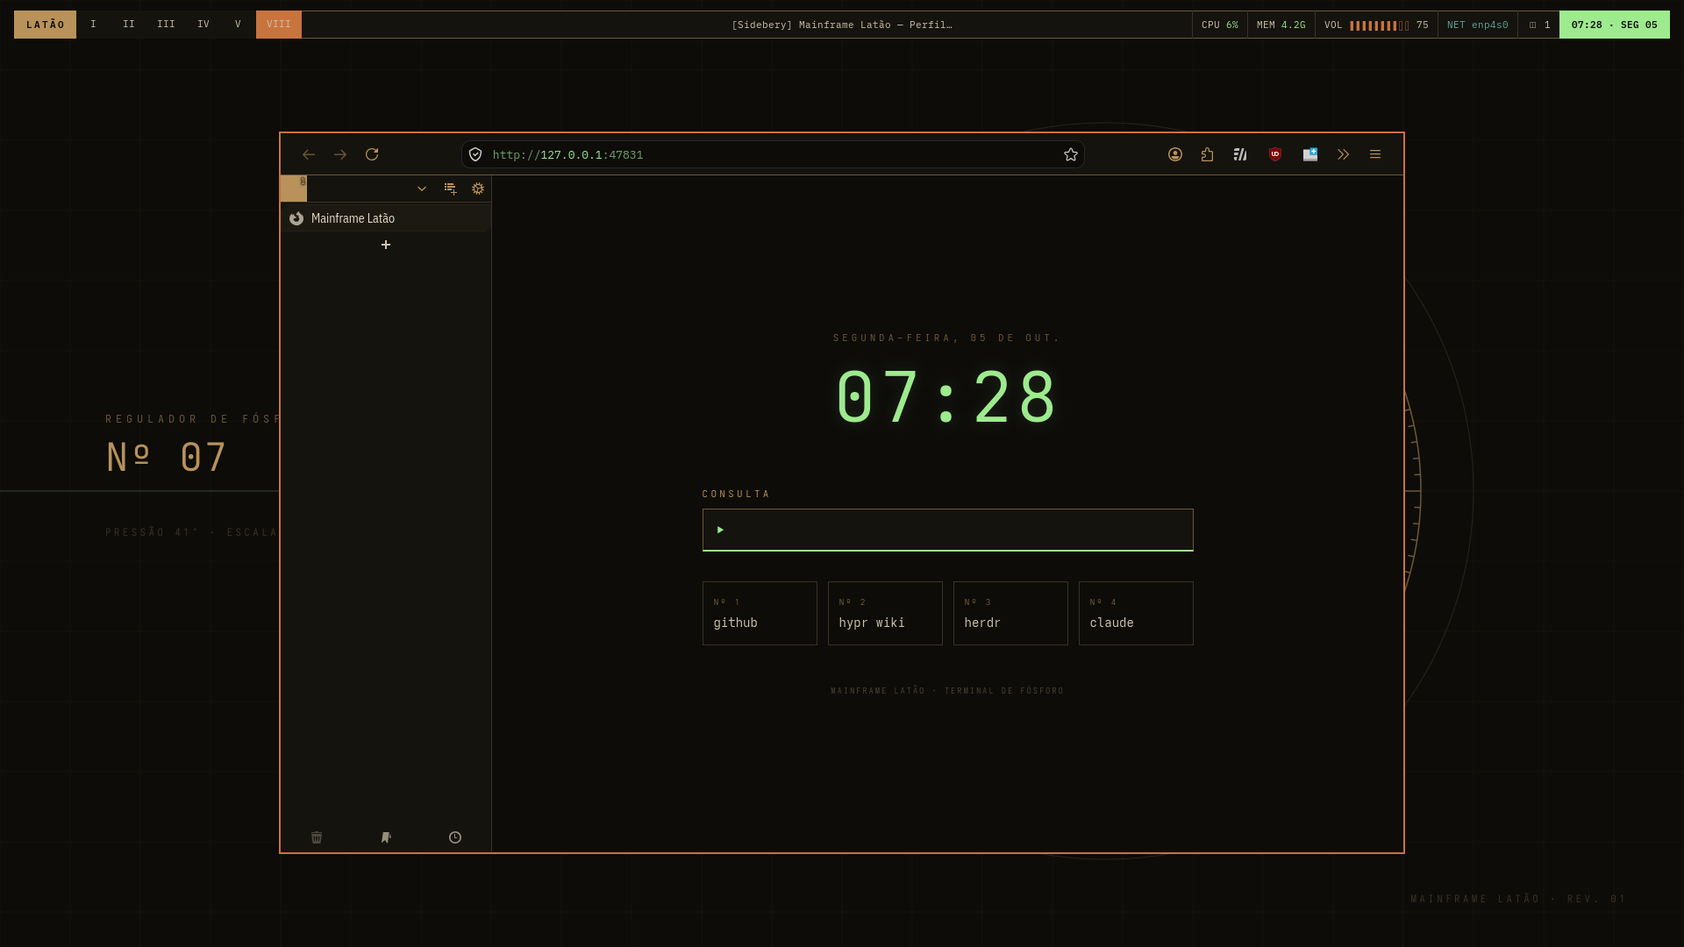
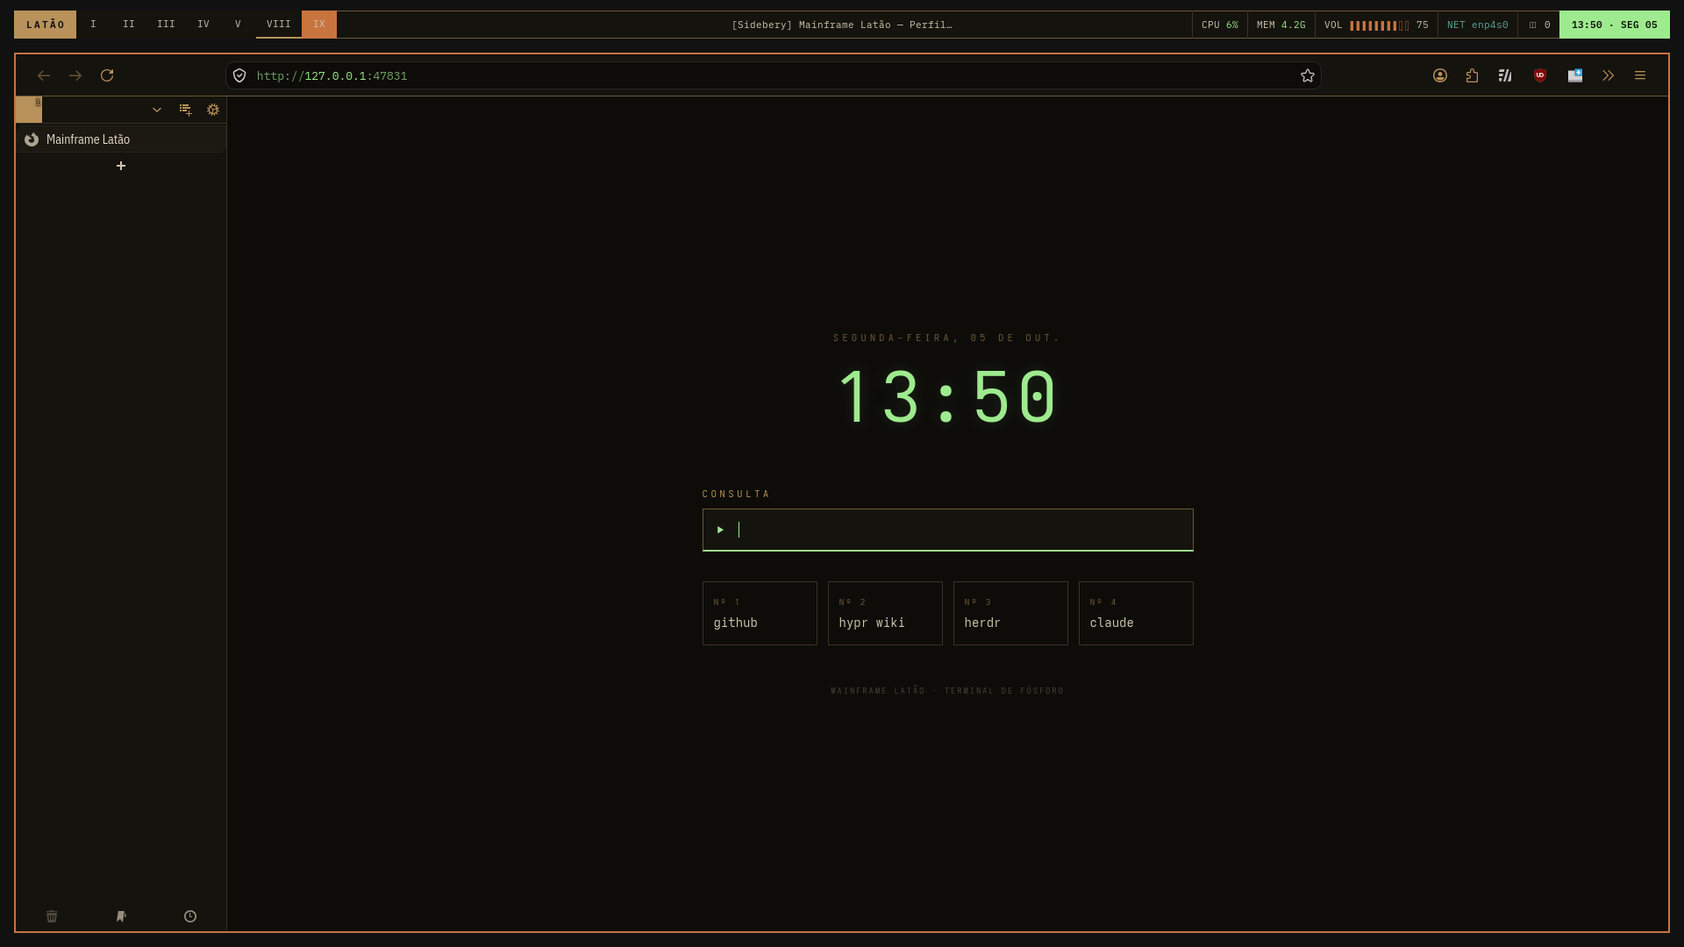
Present Mainframe theme with updated screenshots and slide deck

diff --git a/docs/presentation.html b/docs/presentation.html
@@ -1,0 +1,34 @@
+<!doctype html>
+<html lang="en">
+<head>
+<meta charset="utf-8">
+<meta name="viewport" content="width=device-width, initial-scale=1">
+<meta name="color-scheme" content="dark">
+<title>Mainframe Latão — presentation</title>
+<style>
+:root{--ink:#0d0c09;--surface:#15130e;--line:#3a3224;--brass:#b8925a;--copper:#c8743f;--phosphor:#9eea8e;--paper:#e9dfc8;--soft:#9a8e73;--patina:#5ba89b}
+*{box-sizing:border-box}html{background:var(--ink);color:var(--paper);font-family:"IBM Plex Mono",ui-monospace,monospace}body{margin:0}button,a{font:inherit}a{color:var(--phosphor)}button{cursor:pointer;background:var(--surface);color:var(--brass);border:1px solid var(--brass);padding:.75rem 1rem}button:hover,button:focus-visible{background:var(--copper);color:var(--ink);outline:0}
+.deck{height:100dvh;min-height:540px;display:grid;grid-template-rows:4px 1fr auto}.progress{background:var(--line)}.progress b{display:block;width:12.5%;height:100%;background:var(--phosphor);transition:width .25s}
+.slide{display:none;min-height:0;padding:clamp(1rem,3vw,3rem);align-items:center;gap:clamp(1rem,3vw,3rem);max-width:1760px;width:100%;margin:auto}.slide.active{display:grid;grid-template-columns:minmax(260px,33%) minmax(0,1fr)}.slide.intro{grid-template-columns:1fr;justify-items:center;text-align:center;max-width:1100px}.slide.intro h1{font-size:clamp(3rem,7vw,6.5rem)}.slide.intro p{max-width:700px}.eyebrow{text-transform:uppercase;letter-spacing:.28em;color:var(--brass);font-size:.7rem}.slide h1,.slide h2{font-weight:400;line-height:1.08;margin:.5rem 0 1.5rem}.slide h2{font-size:clamp(2rem,4vw,4.5rem)}.slide p{line-height:1.7;color:var(--soft);font-size:clamp(.9rem,1.15vw,1.15rem)}.slide strong{color:var(--paper);font-weight:500}.slide .accent{color:var(--phosphor)}.frame{border:2px solid var(--brass);background:var(--surface);padding:8px;min-width:0;box-shadow:16px 16px 0 #1c1912}.frame img{display:block;width:100%;height:auto;max-height:calc(100dvh - 145px);object-fit:contain}.slide.intro img{width:min(100%,1000px);border:1px solid var(--line)}.caption{font-size:.65rem;color:var(--brass);letter-spacing:.13em;text-transform:uppercase;margin-top:1rem}.swatches{display:grid;gap:.7rem;margin-top:2rem}.swatch{display:flex;align-items:center;gap:.7rem;color:var(--soft);font-size:.8rem}.swatch i{width:2.6rem;height:1.5rem;border:1px solid var(--line)}.footer{display:flex;align-items:center;gap:1rem;justify-content:space-between;border-top:1px solid var(--line);background:var(--surface);padding:.7rem clamp(1rem,3vw,3rem);font-size:.72rem;letter-spacing:.12em;color:var(--brass)}.controls{display:flex;gap:.5rem}.controls button{padding:.35rem .65rem}.badge{color:var(--phosphor)}.kbd{color:var(--soft)}
+@media(max-width:800px){.deck{height:auto;min-height:100dvh}.slide.active{grid-template-columns:1fr;align-content:center}.slide .frame{max-width:100%}.frame img{max-height:50vh}.slide.intro h1{font-size:3rem}.kbd{display:none}}
+@media(prefers-reduced-motion:reduce){.progress b{transition:none}}
+</style>
+</head>
+<body><main class="deck" aria-label="Mainframe Latão theme presentation">
+<div class="progress" aria-hidden="true"><b id="progress"></b></div>
+<section class="slide intro active" aria-label="Introduction"><div><p class="eyebrow">Terminal de fósforo / rev. 01</p><h1>MAINFRAME <span style="color:var(--copper)">LATÃO</span></h1><p>A brass-and-phosphor desktop for deliberate work. An analog instrument language carried across an entire Hyprland session.</p><img src="images/wordmark.svg" alt="Mainframe Latão brass gauge wordmark"><p class="caption">32-inch reference display · 1920 × 1080 · scale 1</p></div></section>
+<section class="slide"><div><p class="eyebrow">01 / The command desk</p><h2>Signals within reach.</h2><p>A live clock and system readings sit beside a Pomodoro timer, media controls, persistent tasks and a navigable calendar. <strong>The sample tasks in this capture are isolated from the user's data.</strong></p><p class="caption">GTK 3 dashboard / real Wayland capture</p></div><figure class="frame"><img src="images/dashboard.png" alt="Mainframe dashboard over the gauge wallpaper"></figure></section>
+<section class="slide"><div><p class="eyebrow">02 / Navigation</p><h2>Find the next thing.</h2><p><strong>Yazi</strong> brings phosphor selection, brass directories, copper search, a square status line and matching code previews into a compact floating scratchpad.</p><p class="caption">1160 × 740 logical pixels</p></div><figure class="frame"><img src="images/yazi.png" alt="Yazi file manager using the Mainframe theme"></figure></section>
+<section class="slide"><div><p class="eyebrow">03 / Creation</p><h2>A quieter editor.</h2><p>Neovim uses a native colorscheme, rectangular buffer tabs and a Lualine palette that keep syntax visible without visual noise. Regular application windows tile with fine gaps.</p><p class="caption">IBM Plex Mono / Neovim</p></div><figure class="frame"><img src="images/neovim.png" alt="Tiled Neovim window with the Mainframe colorscheme"></figure></section>
+<section class="slide"><div><p class="eyebrow">04 / Research</p><h2>A clean place to begin.</h2><p>Firefox and Sidebery frame a local page with a live clock, search and direct links. The page is served on the workstation's loopback address.</p><p class="caption">Firefox / Sidebery / local homepage</p></div><figure class="frame"><img src="images/firefox.png" alt="Tiled Firefox window with Sidebery and Mainframe homepage"></figure></section>
+<section class="slide"><div><p class="eyebrow">05 / Control</p><h2>Keyboard first.</h2><p>Rofi, Waybar and SwayNC share the same hierarchy: brass structure, copper action, green selection. The launcher keeps its footprint small even on a large display.</p><p class="caption">Super + Space / launcher</p></div><figure class="frame"><img src="images/launcher.png" alt="Compact Rofi application launcher"></figure></section>
+<section class="slide"><div><p class="eyebrow">06 / Focus</p><h2>Open a little space.</h2><p><strong>F8</strong> keeps windows tiled while widening the margins, hiding Waybar, enabling do-not-disturb and placing an elapsed-time HUD in its own lower strip. Yazi can rest in the upper-left gap.</p><p class="caption">F8 / tiled focus mode</p></div><figure class="frame"><img src="images/focus.png" alt="Tiled Neovim focus mode with wide margins and HUD"></figure></section>
+<section class="slide"><div><p class="eyebrow">07 / Materials</p><h2>Brass. Copper. Phosphor.</h2><p>The interface is built from <strong>opaque near-black planes</strong>, two-pixel rules and square corners. The color hierarchy stays consistent from browser to terminal and from file manager to volume gauge.</p><div class="swatches"><div class="swatch"><i style="background:#0d0c09"></i> Canvas · #0D0C09</div><div class="swatch"><i style="background:#b8925a"></i> Brass · #B8925A</div><div class="swatch"><i style="background:#c8743f"></i> Copper · #C8743F</div><div class="swatch"><i style="background:#9eea8e"></i> Phosphor · #9EEA8E</div></div><p><a href="../README.md">Project README →</a></p></div><figure class="frame"><img src="images/volume.png" alt="Analog-inspired volume OSD on the desktop"></figure></section>
+<footer class="footer"><span>MAINFRAME LATÃO <span class="badge">●</span> <span id="count">01 / 08</span></span><span class="kbd">← / → navigation · F fullscreen</span><div class="controls"><button id="prev" aria-label="Previous slide">←</button><button id="next" aria-label="Next slide">→</button></div></footer>
+</main><script>
+const slides=[...document.querySelectorAll('.slide')];let index=0;
+function show(n){index=(n+slides.length)%slides.length;slides.forEach((s,i)=>{s.classList.toggle('active',i===index);s.setAttribute('aria-hidden',String(i!==index))});document.getElementById('count').textContent=String(index+1).padStart(2,'0')+' / '+String(slides.length).padStart(2,'0');document.getElementById('progress').style.width=((index+1)/slides.length*100)+'%';location.hash='slide-'+(index+1)}
+document.getElementById('prev').onclick=()=>show(index-1);document.getElementById('next').onclick=()=>show(index+1);
+document.addEventListener('keydown',e=>{if(e.key==='ArrowRight'||e.key===' '){e.preventDefault();show(index+1)}else if(e.key==='ArrowLeft'){e.preventDefault();show(index-1)}else if(e.key.toLowerCase()==='f'){document.fullscreenElement?document.exitFullscreen():document.documentElement.requestFullscreen()}});
+const selected=Number(location.hash.replace('#slide-',''));show(Number.isInteger(selected)&&selected>0&&selected<=slides.length?selected-1:0);
+</script></body></html>

diff --git a/README.md b/README.md
@@ -1,78 +1,69 @@
-# Mainframe Latão
+<p align="center">
+  <img src="docs/images/wordmark.svg" alt="Mainframe Latão — a brass-and-phosphor desktop" width="100%">
+</p>
 
-![Arch Linux](https://img.shields.io/badge/Arch_Linux-1793D1?style=flat-square&logo=archlinux&logoColor=white)
-![Hyprland](https://img.shields.io/badge/Hyprland-58E1FF?style=flat-square&logo=hyprland&logoColor=black)
-![Neovim](https://img.shields.io/badge/Neovim-57A143?style=flat-square&logo=neovim&logoColor=white)
-![Fish](https://img.shields.io/badge/Fish_Shell-4AAE46?style=flat-square&logo=fishshell&logoColor=white)
-![License](https://img.shields.io/badge/License-OFL_·_MIT-B8925A?style=flat-square)
+<p align="center">
+  <a href="#the-desktop">Explore</a> · <a href="#the-system">Design system</a> · <a href="#get-started">Get started</a> · <a href="docs/PRESENTATION.md">Theme presentation</a> · <a href="docs/presentation.html">Slide deck</a> · <a href="docs/INSTALL.md">Installation guide</a>
+</p>
 
-**A brass-and-phosphor desktop for deliberate work.**
+<p align="center">
+  <img alt="Arch Linux" src="https://img.shields.io/badge/Arch_Linux-0D0C09?style=flat-square&logo=archlinux&logoColor=B8925A">
+  <img alt="Hyprland" src="https://img.shields.io/badge/Hyprland-0D0C09?style=flat-square&logoColor=9EEA8E">
+  <img alt="Yazi" src="https://img.shields.io/badge/Yazi-0D0C09?style=flat-square&logoColor=C8743F">
+  <img alt="IBM Plex" src="https://img.shields.io/badge/IBM_Plex-0D0C09?style=flat-square&logo=ibm&logoColor=CFC4AA">
+</p>
 
-Mainframe Latão brings the visual language of analog instruments to a modern Hyprland desktop: near-black panels, fine brass rules, copper controls and luminous green selections. Windows tile with fine gaps that leave room for the wallpaper and for your attention; only the Yazi scratchpad floats.
+> **Mainframe Latão** turns a Hyprland workstation into a quiet instrument panel: near-black canvas, fine brass lines, copper controls, and phosphor-green signals. It was built from the supplied HTML and PNG references and tuned on a 32-inch, 1920 × 1080 display.
 
-![Mainframe dashboard](docs/images/dashboard.png)
-
-Designed from the supplied Mainframe HTML and screenshot references, then implemented and checked in a running Arch Linux session. The desktop keeps its Portuguese labels; this project presentation is in English.
-
-[Installation and rollback](docs/INSTALL.md)
+<p align="center">
+  <a href="docs/images/dashboard.png"><img src="docs/images/dashboard.png" alt="Mainframe dashboard with clock, timer, media, tasks and calendar" width="960"></a>
+  <br><sub>01 / The dashboard — real clock and metrics, persistent tasks and timer, media controls, calendar. Sample tasks appear only in this preview.</sub>
+</p>
 
 ## The desktop
 
-| Surface | Included behavior |
-| --- | --- |
-| Hyprland / Hyprpaper | Sharp borders, opaque surfaces, tiled windows with a floating Yazi scratchpad, instrument wallpaper |
-| Waybar | Roman workspaces, live CPU/RAM, segmented volume, network and clock |
-| Dashboard | Live clock and system readings, persistent tasks, Pomodoro timer, calendar, playerctl media controls |
-| Focus mode | Tiled windows with wide gaps, hidden bar, do-not-disturb, elapsed-time HUD, Yazi parked top-left |
-| Rofi / clipboard | Application modes, searchable clipboard, pin/delete/copy actions |
-| SwayNC | Compact notification center, volume, focus and mute controls |
-| Kitty / Fish / Starship | IBM Plex Mono, block cursor, coordinated shell and prompt |
-| Neovim | Native colorscheme, rectangular buffer tabs, Lualine integration, editor focus mode |
-| **Yazi** | Phosphor selection, brass directories, copper search, square status line and themed code previews |
-| Firefox / Sidebery | Brass browser chrome, vertical tabs, local clock/search home page |
-| Herdr / Bat / Btop / GTK 3 | Matching application colors, syntax previews, system monitor and widgets |
+The theme carries one visual language across the whole session. Regular applications **tile with fine gaps**. The Yazi scratchpad floats at a compact 1160 × 740 logical pixels, leaving the wallpaper visible on the reference display.
 
-### File navigation
+<table>
+<tr><th align="left">Surface</th><th align="left">What it does</th></tr>
+<tr><td>Hyprland + Hyprpaper</td><td>Sharp borders, opaque windows, instrument wallpaper, two focus workflows.</td></tr>
+<tr><td>Waybar + dashboard</td><td>Roman workspaces; live CPU, memory, network, volume and clock; a task, timer, media and calendar panel.</td></tr>
+<tr><td>Rofi + clipboard</td><td>Application launcher and searchable history with copy, pin and delete actions.</td></tr>
+<tr><td>SwayNC</td><td>Compact notifications, volume, mute and focus controls.</td></tr>
+<tr><td>Kitty + Fish + Starship</td><td>IBM Plex typography, block cursor, coordinated terminal and prompt.</td></tr>
+<tr><td>Neovim + Yazi</td><td>Editor colors, tabs and Lualine; phosphor selection, brass directories and code previews in the file manager.</td></tr>
+<tr><td>Firefox + Sidebery</td><td>Brass browser chrome, vertical tabs and a local clock/search page.</td></tr>
+<tr><td>Herdr + Bat + Btop + GTK 3</td><td>Matching application colors and controls.</td></tr>
+</table>
 
-![Yazi with Mainframe theme](docs/images/yazi.png)
+### A tour in screenshots
 
-### Editing
+<table>
+<tr><td width="50%"><a href="docs/images/yazi.png"><img src="docs/images/yazi.png" alt="Yazi file manager with Mainframe colors"></a><br><b>02 / Files.</b> Yazi uses the full palette, including selected rows, status and preview syntax.</td><td width="50%"><a href="docs/images/neovim.png"><img src="docs/images/neovim.png" alt="Neovim with Mainframe colors and Neo-tree"></a><br><b>03 / Code.</b> A quiet editor surface with rectangular buffer tabs.</td></tr>
+<tr><td><a href="docs/images/firefox.png"><img src="docs/images/firefox.png" alt="Firefox with Sidebery and Mainframe start page"></a><br><b>04 / Browse.</b> A local clock and search page framed by the browser theme.</td><td><a href="docs/images/launcher.png"><img src="docs/images/launcher.png" alt="Rofi application launcher"></a><br><b>05 / Launch.</b> Compact keyboard-first application access.</td></tr>
+</table>
 
-![Neovim with Mainframe theme](docs/images/neovim.png)
+[Read the screenshot narrative →](docs/PRESENTATION.md) · [Get the interactive slide deck →](docs/presentation.html)
 
-### Browser
+To view the interactive deck, clone or download this repository and open `docs/presentation.html` in a browser. Use the arrow keys to advance and **F** for fullscreen.
 
-![Firefox and Sidebery](docs/images/firefox.png)
+## The system
 
-### Launch and focus
-
-| Launcher | Focus mode |
-| --- | --- |
-| ![Rofi](docs/images/launcher.png) | ![Focus mode](docs/images/focus.png) |
-
-### Volume OSD
-
-![Volume instrument OSD](docs/images/volume.png)
-
-## Design language
-
-| Token | Value | Role |
-| --- | --- | --- |
-| Near black | `#0D0C09` | Desktop and terminal canvas |
+| Pigment | Hex | Role |
+| :--- | :--- | :--- |
+| Canvas | `#0D0C09` | Almost-black desktop and terminal |
 | Panel | `#15130E` | Cards and controls |
-| Brass | `#B8925A` | Borders, labels and structure |
-| Copper | `#C8743F` | Active window and actions |
+| Brass | `#B8925A` | Rules, labels and structure |
+| Copper | `#C8743F` | Active border and primary actions |
 | Phosphor | `#9EEA8E` | Selection, clock and live values |
 | Parchment | `#E9DFC8` | Primary text |
 | Patina | `#5BA89B` | Media and secondary information |
 
-IBM Plex Mono and IBM Plex Sans Condensed are bundled under the SIL Open Font License. Two-pixel outlines, square corners and opaque backgrounds keep the interface crisp.
+IBM Plex Mono and IBM Plex Sans Condensed give the interface its measured rhythm. Square corners, two-pixel borders and opaque surfaces keep the reference artwork crisp. Physical monitor size does not set UI scale: the layout was tuned at **1920 × 1080, scale 1** and may need size adjustments at other logical resolutions.
 
-The reference workstation is a **32-inch display at 1920 × 1080, scale 1**. Applications tile; the floating Yazi scratchpad is 1160 × 740. Physical screen size alone does not determine UI scale; adjust these logical-pixel sizes for other resolutions and scale factors.
+## Get started
 
-## Quick start
-
-This is a theme overlay for an existing Arch/Hyprland Lua desktop. It does not provision a fresh OS or install application packages. Read the [requirements and integration notes](docs/INSTALL.md) first.
+This is an **overlay for an existing Arch/Hyprland Lua desktop**. It preserves the machine's monitor and input setup while backing up every managed file. Review [requirements and integration details](docs/INSTALL.md) before applying it.
 
 ```sh
 git clone https://github.com/Rodericuss/dotfiles-mainframe.git
@@ -82,38 +73,32 @@ cd dotfiles-mainframe
 ./activate.sh
 ```
 
-The installer backs up every managed file before its first replacement. Reapplying preserves that original backup. Existing Hyprland hardware configuration and Kitty keymaps are retained; theme-owned application configuration files are replaced.
-
-| Shortcut | Action |
-| --- | --- |
-| `Super + Tab` / `Super + T` | Dashboard |
-| `Super + Space` | Application launcher |
-| `Super + O` | Clipboard history |
-| `Super + N` | Notification center |
-| `F7` | Swap `hypr_config1.lua`/`hypr_config2.lua` when present; otherwise window focus mode |
-| `F8` | Focus mode: windows stay tiled with wide gaps, bar hidden, DND, elapsed-time HUD; the Yazi scratchpad parks top-left |
-| Media volume keys | Volume and instrument OSD |
-| `:MainframeFocus` / `<leader>uz` | Neovim focus mode |
+Reapplying retains the backup from the first installation. To inspect or perform a rollback:
 
 ```sh
 ./restore.sh --dry-run
 ./restore.sh
 ```
 
-See the rollback notes for browser preferences and the optional new-tab extension.
+| Key | Action |
+| :--- | :--- |
+| `Super + Tab` or `Super + T` | Dashboard |
+| `Super + Space` | Application launcher |
+| `Super + O` | Clipboard history |
+| `Super + N` | Notification center |
+| `F8` | Window focus: wider gaps, bar hidden, DND and elapsed HUD; Yazi moves into the top-left gap |
+| `F7` | Swap the local normal/focus Hyprland config pair, when installed; otherwise use F8 behavior |
+| Volume media keys | Change volume and show the instrument OSD |
+| `:MainframeFocus` or `<leader>uz` | Neovim focus mode |
 
-## Validation
+## Built and checked on a real desktop
 
-Tested in the actual Wayland session with Hyprland 0.56.2, Kitty 0.48.2, Rofi 2.0.0, Waybar 0.15.0, SwayNC 0.12.6 and Yazi 26.9.1. Screenshots are real `grim` captures; dashboard tasks are isolated sample data. No personal browser tabs or conversations are included.
-
-Automated checks cover installer dry-run, repeated application, backup restoration, task persistence, timer completion and calendar boundaries. Live checks cover compositor configuration, Yazi startup, focus round-trips with tiled windows and the Yazi scratchpad, volume display and Firefox new-tab routing.
+The screenshots are `grim` captures from a running Wayland session. The dashboard screenshot uses isolated sample tasks; personal browser tabs and conversations are excluded. The application versions checked were Hyprland 0.56.2, Kitty 0.48.2, Waybar 0.15.0, Rofi 2.0.0, SwayNC 0.12.6 and Yazi 26.9.1.
 
 ```sh
 python -m unittest discover -s tests -v
 ```
 
-## Credits
+The tests cover install, reapply and restore; task persistence; timer completion; and calendar boundaries. The live checks covered compositor loading, the clipboard store/decode path, Yazi rendering, volume OSD and browser routing. See [installation and limitations](docs/INSTALL.md) for details.
 
-Based on the Mainframe Latão reference artwork and HTML supplied for this project. Built on [Hyprland](https://hypr.land), [Yazi](https://yazi-rs.github.io), [IBM Plex](https://github.com/IBM/plex), GTK and the applications listed above. [New Tab Override](https://addons.mozilla.org/firefox/addon/new-tab-override/) is an optional, separately installed Firefox adapter.
-
-Fonts retain their [OFL license](fonts/OFL.txt). Upstream applications and reference artwork retain their respective rights.
+<sub>Designed from the supplied Mainframe Latão references. [IBM Plex](https://github.com/IBM/plex) fonts retain their [SIL Open Font License](fonts/OFL.txt). Built with [Hyprland](https://hypr.land), [Yazi](https://yazi-rs.github.io), GTK and the other tools listed above. The optional Firefox new-tab adapter is [New Tab Override](https://addons.mozilla.org/firefox/addon/new-tab-override/). Reference artwork and upstream applications retain their respective rights.</sub>

diff --git a/docs/PRESENTATION.md b/docs/PRESENTATION.md
@@ -1,0 +1,50 @@
+<p align="center"><img src="images/wordmark.svg" alt="Mainframe Latão wordmark" width="100%"></p>
+
+# Mainframe Latão — theme presentation
+
+*A brass-and-phosphor desktop for deliberate work.*
+
+[Open the standalone slide deck](presentation.html) after cloning or downloading this repository. Arrow keys navigate; **F** enters fullscreen.
+
+The idea is an instrument panel that happens to be a workstation. Brass marks the structure, copper identifies the active control, and phosphor green is reserved for the values that need attention. Empty space is part of the composition: on the reference 32-inch display, the wallpaper remains visible around the dashboard and the Yazi scratchpad.
+
+![Dashboard and wallpaper](images/dashboard.png)
+
+**01 — The command desk.** The panel brings together a clock, live CPU and memory, a Pomodoro timer, player information, persistent tasks and a navigable calendar. The screenshot uses isolated sample tasks; the installed dashboard loads the user's own state.
+
+![Yazi](images/yazi.png)
+
+**02 — Navigation.** Yazi extends the same palette to directory names, selection, search, status and code previews. The scratchpad is 1160 × 740 logical pixels at the reference resolution and sits over the wallpaper.
+
+![Neovim](images/neovim.png)
+
+**03 — Creation.** Neovim has a native colorscheme, rectangular buffer tabs and a matching Lualine palette. The file tree in this capture comes from the existing editor setup.
+
+![Firefox](images/firefox.png)
+
+**04 — Research.** Firefox and Sidebery frame a local start page with a live clock, search and direct links. The page is available only on the workstation's loopback address when the Mainframe panel runs.
+
+![Launcher](images/launcher.png)
+
+**05 — Control.** Rofi is compact, typographic and keyboard-led. The system remains consistent through the notification center, volume OSD and Fish prompt.
+
+![Focus](images/focus.png)
+
+**06 — Focus.** F8 keeps windows tiled, opens generous margins, hides Waybar, enables do-not-disturb and shows an elapsed HUD. The floating Yazi scratchpad moves to the upper-left edge of the work area. F7 can switch a separately installed Hyprland config pair.
+
+![Volume gauge](images/volume.png)
+
+**07 — Feedback.** A small analog gauge makes volume changes visible without occupying the desktop. The readings come from the real audio device.
+
+## Materials
+
+| Material | Color | Function |
+| :--- | :--- | :--- |
+| Blackened steel | `#0D0C09` | Canvas |
+| Dark enamel | `#15130E` | Surface |
+| Brushed brass | `#B8925A` | Structure |
+| Warm copper | `#C8743F` | Action |
+| Phosphor | `#9EEA8E` | Signal |
+| Parchment | `#E9DFC8` | Text |
+
+The exact surfaces and setup instructions are in the [project README](../README.md) and [installation guide](INSTALL.md). The bundled IBM Plex fonts are under the [SIL Open Font License](../fonts/OFL.txt).
